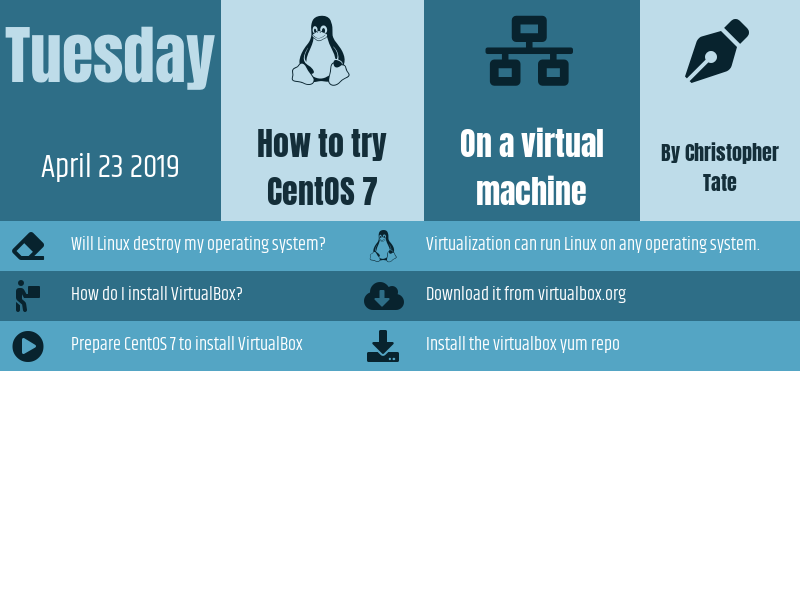
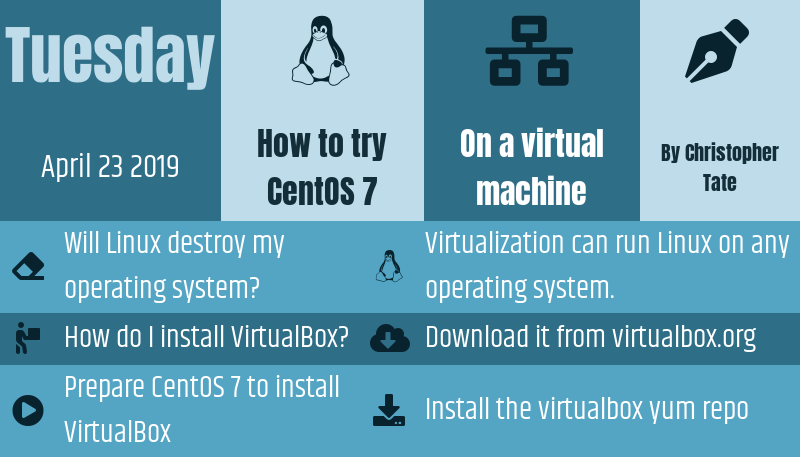
changes

diff --git a/css/site.css b/css/site.css
@@ -252,8 +252,8 @@ em {
 	margin: 8px;
 }
 .recapituler3TableTr.odd td {
-	color:#fff;background-color:#54A5C4;font-weight:bold;
+	color:#fff;background-color:#54A5C4;font-weight:bold;font-size:30px;
 }
 .recapituler3TableTr.even td {
-	color:#fff;background-color:#2E6E87;font-weight:bold;
+	color:#fff;background-color:#2E6E87;font-weight:bold;font-size:30px;
 }
